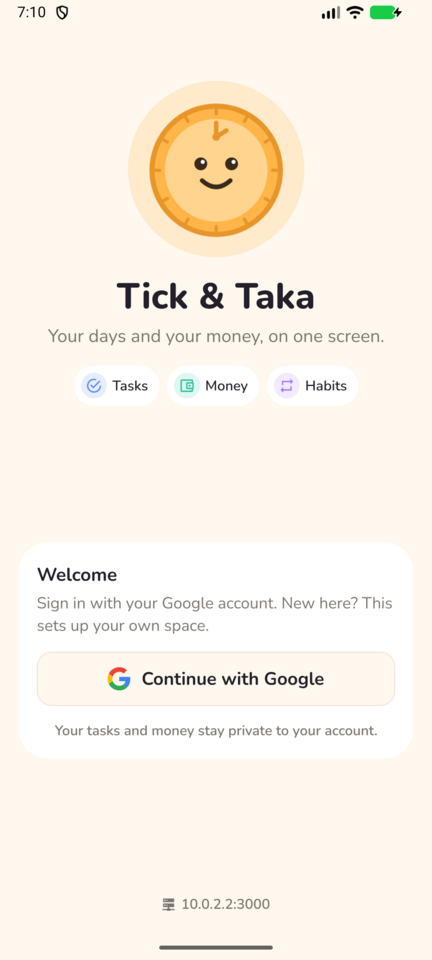
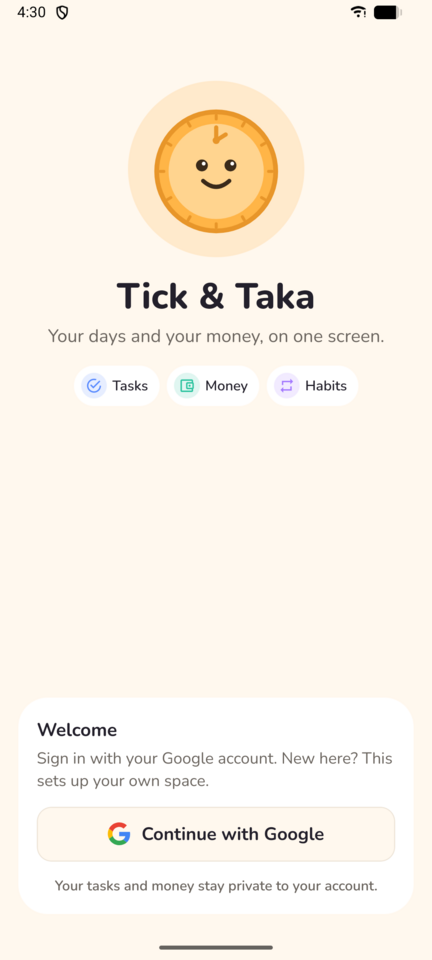
docs: refresh the README screenshots from the current app
All 23 are new, taken from a release build on the Android emulator with
the demo account, and the Today and widget captions describe the current
layout.

diff --git a/README.md b/README.md
@@ -33,11 +33,14 @@ cheers small wins and never scolds a missed day.
 
 ## Screenshots
 
+Taken from a release build on the Android emulator with a demo account
+(`apps/api/scripts/demo.ts`), October 2026.
+
 ### Today and capture
 
-Today leads with shortcuts for the four things logged most, the safe-to-spend number,
-your top three and what's next. Quick-add reads plain text such as "biryani with friends
-850" and shows what it understood before saving.
+Today leads with what's next and the safe-to-spend number, then your top three, the rest
+of the day, habits and shortcuts for the four things logged most. Quick-add reads plain
+text such as "biryani with friends 850" and shows what it understood before saving.
 
 |                              Today                               |                                           Further down                                            |                                         Quick-add                                          |                                 Task                                 |
 | :--------------------------------------------------------------: | :-----------------------------------------------------------------------------------------------: | :----------------------------------------------------------------------------------------: | :------------------------------------------------------------------: |
@@ -64,8 +67,9 @@ your top three and what's next. Quick-add reads plain text such as "biryani with
 ### Home-screen widget
 
 Today at a glance without opening the app: safe to spend with a bar for how much of the
-day's share is gone, the next task, top-three and habit progress, one-tap logging for
-things you buy often, and buttons to add a task, log an expense or start focusing.
+day's share is gone, the next task, top-three and habit progress, buttons to add a task or
+log an expense, and one-tap logging for things you buy often (with Undo). Larger widgets
+also get Focus and Tiki.
 
 |                                         Light                                         |                                           Dark                                            |
 | :-----------------------------------------------------------------------------------: | :---------------------------------------------------------------------------------------: |
